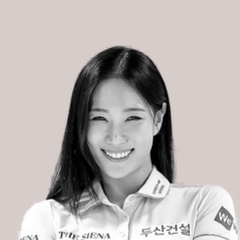
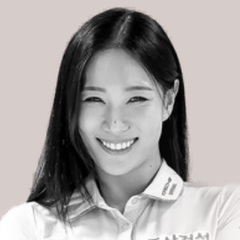
타임테이블: 유현주 프로 사진 얼굴 위치를 다른 연사와 맞춤
Claude-Session: https://claude.ai/code/session_01R7psaqm8m7GEAGGww3SgQz

diff --git a/index.html b/index.html
@@ -881,7 +881,7 @@ try{ if('scrollRestoration' in history) history.scrollRestoration='manual'; }cat
   const av=n=>{ if(n==='SMCC') return `<span class="av logo"><img src="img/smcc.png" alt="SMCC"></span>`;
     if(n==='스페셜 게스트') return `<span class="av guest" aria-hidden="true"><svg width="20" height="20" viewBox="0 0 24 24"><path d="M12 1.5C12.7 7.4 16.6 11.3 22.5 12C16.6 12.7 12.7 16.6 12 22.5C11.3 16.6 7.4 12.7 1.5 12C7.4 11.3 11.3 7.4 12 1.5Z" fill="#7A5450"/></svg></span>`;
     const f=PHOTO[n]; if(!f) return `<span class="av" aria-hidden="true">${n.slice(0,1)}</span>`;
-    return `<span class="av photo"><img src="img/${f}.png?v=2" alt="" loading="lazy"></span>`; };
+    return `<span class="av photo"><img src="img/${f}.png?v=3" alt="" loading="lazy"></span>`; };
   const dur=t=>{const m=t.match(/(\d+):(\d+)\D+(\d+):(\d+)/); if(!m) return ''; const d=(+m[3]*60+ +m[4])-(+m[1]*60+ +m[2]); return d>0?d+'분':'';};
   const ACT={open:()=>`<a class="s-book" href="${BOOK}" target="_blank" rel="noopener">예매하기 ↗</a>`,
     soon:()=>`<span class="c-state soon">오픈 예정</span>`,
